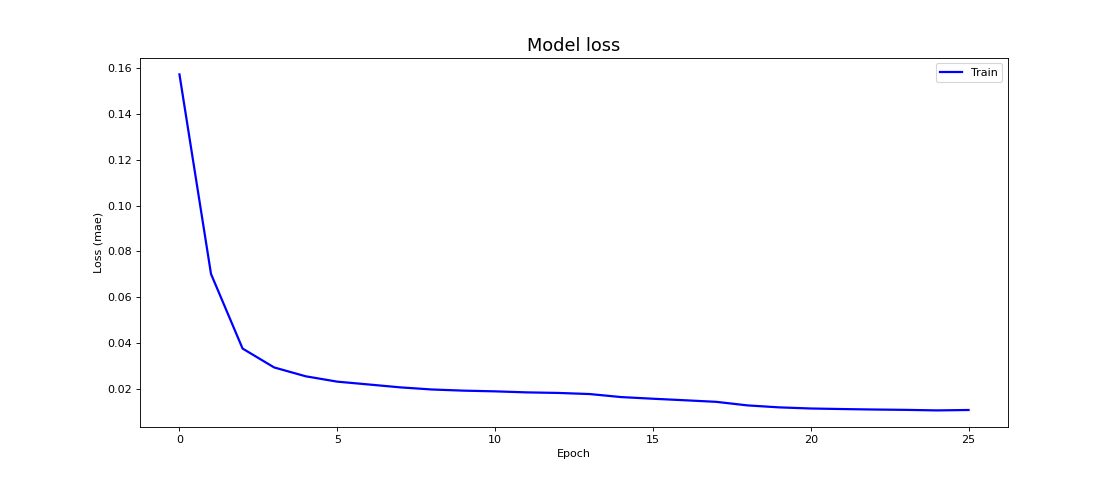
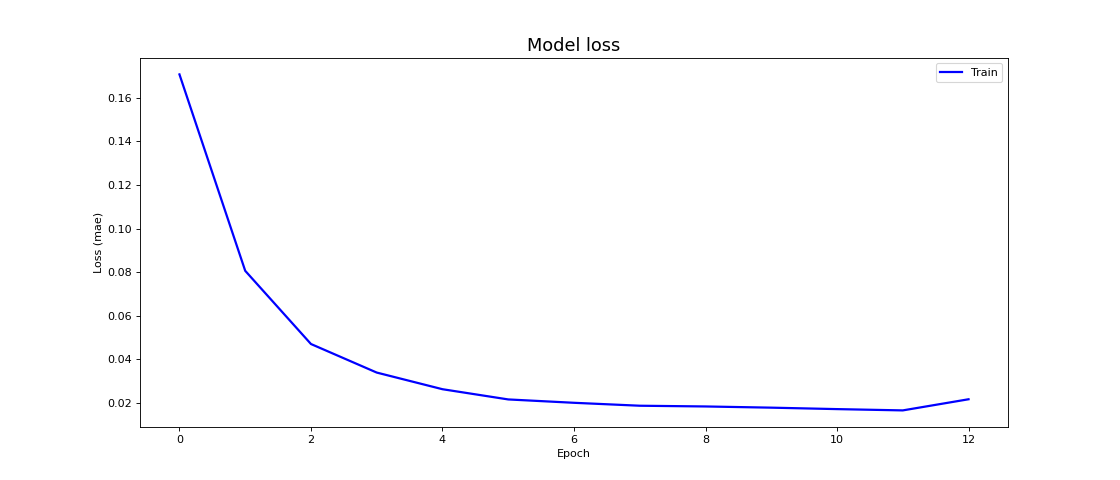
Change | iso+2auto

diff --git a/model/Iso_2Auto.py b/model/Iso_2Auto.py
@@ -1,12 +1,17 @@
+import pandas as pd
+import numpy as np
+import matplotlib.pyplot as plt
+import seaborn as sns
+
 import keras
 from keras import regularizers
 from keras.models import  Model, Sequential
 from keras.layers import Dense, Input, BatchNormalization
 from sklearn.ensemble import IsolationForest
-import numpy as np
+from keras.callbacks import EarlyStopping
 
-def Iso_2Auto(train_dataset):
-  input_dim = train_dataset.shape[1]
+def iso_2auto(train_dataset,test_dataset):
+  input_dim = train_dataset['x'].shape[1]
   input = Input(shape=(input_dim, ))
   encode = Dense(input_dim//3*2, activation='relu',kernel_regularizer=regularizers.l2(0.01))(input)
   encode = BatchNormalization()(encode)
@@ -21,20 +26,21 @@ def Iso_2Auto(train_dataset):
   decode = BatchNormalization()(decode)
   decode = Dense(input_dim, activation='sigmoid')(decode)
 
-  autoencoder = Model(input, decode)
-
-  autoencoder.compile(optimizer='adam',
+  autoencoder1 = Model(input, decode)
+  early_stopping = EarlyStopping(monitor='loss', mode='min')
+  autoencoder1.compile(optimizer='adam',
               loss='mse',
               metrics=['accuracy'])
 
   # Train model.
-  history1 = autoencoder.fit(train_dataset, train_dataset,
+  history1 = autoencoder1.fit(train_dataset['x'], train_dataset['x'],
           epochs=100,
           batch_size=128,
-          shuffle=True
+          shuffle=True,
+          callbacks = [early_stopping]
           )
   
-  f1_pre = autoencoder.predict(train_dataset)
+  f1_pre = autoencoder1.predict(train_dataset['x'])
 
   clf = IsolationForest(random_state = 42, contamination = 0.3)
   clf.fit(f1_pre)
@@ -57,17 +63,66 @@ def Iso_2Auto(train_dataset):
   decode = BatchNormalization()(decode)
   decode = Dense(input_dim, activation='sigmoid')(decode)
 
-  autoencoder = Model(input, decode)
-
-  autoencoder.compile(optimizer='adam',
+  autoencoder2 = Model(input, decode)
+  early_stopping = EarlyStopping(monitor='loss', mode='min')
+  autoencoder2.compile(optimizer='adam',
               loss='mse',
               metrics=['accuracy'])
 
   # Train model.
-  history2 = autoencoder.fit(p1, p1,
+  history2 = autoencoder2.fit(p1, p1,
           epochs=100,
           batch_size=128,
-          shuffle=True
+          shuffle=True,
+          callbacks = [early_stopping]
           )
 
-  return (max(history1.history['accuracy']) , max(history2.history['accuracy']))
+  # plot the training losses
+  fig, ax = plt.subplots(figsize=(14, 6), dpi=80)
+  ax.plot(history1.history['loss'], 'b', label='Train 1', linewidth=2)
+  ax.plot(history2.history['loss'], 'r', label='Train 2', linewidth=2)
+  ax.set_title('Model loss', fontsize=16)
+  ax.set_ylabel('Loss (mae)')
+  ax.set_xlabel('Epoch')
+  ax.legend(loc='upper right')
+  plt.savefig('./result/2auto+iso_loss.png')
+  
+  # plot the loss distribution of the training set
+  X_pred = autoencoder1.predict(train_dataset['x'])
+  X_pred = autoencoder2.predict(X_pred)
+  X_pred = pd.DataFrame(X_pred)
+  
+  train_scored = pd.DataFrame()
+  Xtrain = train_dataset['x']
+  train_scored['Loss_mae'] = np.mean(np.abs(X_pred-Xtrain), axis = 1)
+  plt.figure(figsize=(16,9), dpi=80)
+  plt.title('Loss Distribution', fontsize=16)
+  sns.distplot(train_scored['Loss_mae'], bins = 20, kde= True, color = 'blue');
+  plt.xlim([0.0,.5])
+  plt.savefig('./result/2auto+iso_mae.png')
+  
+  # calculate the same metrics for the training set 
+  # and merge all data in a single dataframe for plotting
+  X_pred_train = autoencoder2.predict(autoencoder1.predict(train_dataset['x']))
+  X_pred_train = pd.DataFrame(X_pred_train)
+  
+  scored_train = pd.DataFrame()
+  scored_train['Loss_mae'] = np.mean(np.abs(X_pred_train-Xtrain), axis = 1)
+  scored_train['Threshold'] = scored_train.quantile(0.9)[0]
+  scored_train['Anomaly'] = scored_train['Loss_mae'] > scored_train['Threshold']
+  
+  # calculate the loss on the test set
+  X_pred = autoencoder2.predict(autoencoder1.predict(test_dataset['x']))
+  X_pred = pd.DataFrame(X_pred)
+  
+  scored = pd.DataFrame()
+  Xtest = test_dataset['x']
+  scored['Loss_mae'] = np.mean(np.abs(X_pred-Xtest), axis = 1)
+  scored['Threshold'] =  scored_train.quantile(0.9)[0]
+  scored['Anomaly'] = scored['Loss_mae'] > scored['Threshold']
+  scored.head()
+  
+  scored = pd.concat([scored_train, scored])
+  ture_ = pd.Series(train_dataset['y']).append(pd.Series(test_dataset['y']))
+  
+  return ture_,scored['Anomaly']

diff --git a/compare.py b/compare.py
@@ -42,10 +42,15 @@ train_dataset['x'] = scaler.fit_transform(train_dataset['x'])
 test_dataset['x'] = scaler.transform(test_dataset['x'])
 
 # train
-(y_, y_pred) = nn_autoencoder(train_dataset,test_dataset)
-result['nn_autoencoder'] =  [confusion_matrix(y_, y_pred), accuracy_score(y_, y_pred) , f1_score(y_, y_pred)]
-(y_, y_pred) = lstm_autoencoder(train_dataset,test_dataset)
+
+# (y_, y_pred) = nn_autoencoder(train_dataset,test_dataset)
+# result['nn_autoencoder'] =  [confusion_matrix(y_, y_pred), accuracy_score(y_, y_pred) , f1_score(y_, y_pred)]
+# (y_, y_pred) = lstm_autoencoder(train_dataset,test_dataset)
+# result['lstm_autoencoder'] =  [confusion_matrix(y_, y_pred), accuracy_score(y_, y_pred) , f1_score(y_, y_pred)]
+(y_, y_pred) = iso_2auto(train_dataset,test_dataset)
 result['lstm_autoencoder'] =  [confusion_matrix(y_, y_pred), accuracy_score(y_, y_pred) , f1_score(y_, y_pred)]
+# (y_, y_pred) = lstm_autoencoder(train_dataset,test_dataset)
+# result['lstm_autoencoder'] =  [confusion_matrix(y_, y_pred), accuracy_score(y_, y_pred) , f1_score(y_, y_pred)]
 
 print(result)
 print(pd.DataFrame(result, index = ['confusion_matrix','accuracy_score','f1_score']))

diff --git a/model/LSTM_Autoencoder.py b/model/LSTM_Autoencoder.py
@@ -51,7 +51,7 @@ def lstm_autoencoder(train_dataset, test_dataset):
   plt.savefig('./result/lstm_auto_loss.png')
 
   # plot the loss distribution of the training set
-  X_pred = autoencoder.predict(x)
+  X_pred = model.predict(x)
   X_pred = X_pred.reshape(X_pred.shape[0], X_pred.shape[2])
   X_pred = pd.DataFrame(X_pred)
 
@@ -66,7 +66,7 @@ def lstm_autoencoder(train_dataset, test_dataset):
 
   # calculate the same metrics for the training set 
   # and merge all data in a single dataframe for plotting
-  X_pred_train = autoencoder.predict(x)
+  X_pred_train = model.predict(x)
   X_pred_train = X_pred_train.reshape(X_pred_train.shape[0], X_pred_train.shape[2])
   X_pred_train = pd.DataFrame(X_pred_train)
 
@@ -76,7 +76,7 @@ def lstm_autoencoder(train_dataset, test_dataset):
   scored_train['Anomaly'] = scored_train['Loss_mae'] > scored_train['Threshold']
   
   # calculate the loss on the test set
-  X_pred = autoencoder.predict(np.expand_dims(test_dataset['x'],axis=1))
+  X_pred = model.predict(np.expand_dims(test_dataset['x'],axis=1))
   X_pred = X_pred.reshape(X_pred.shape[0], X_pred.shape[2])
   X_pred = pd.DataFrame(X_pred)
 
